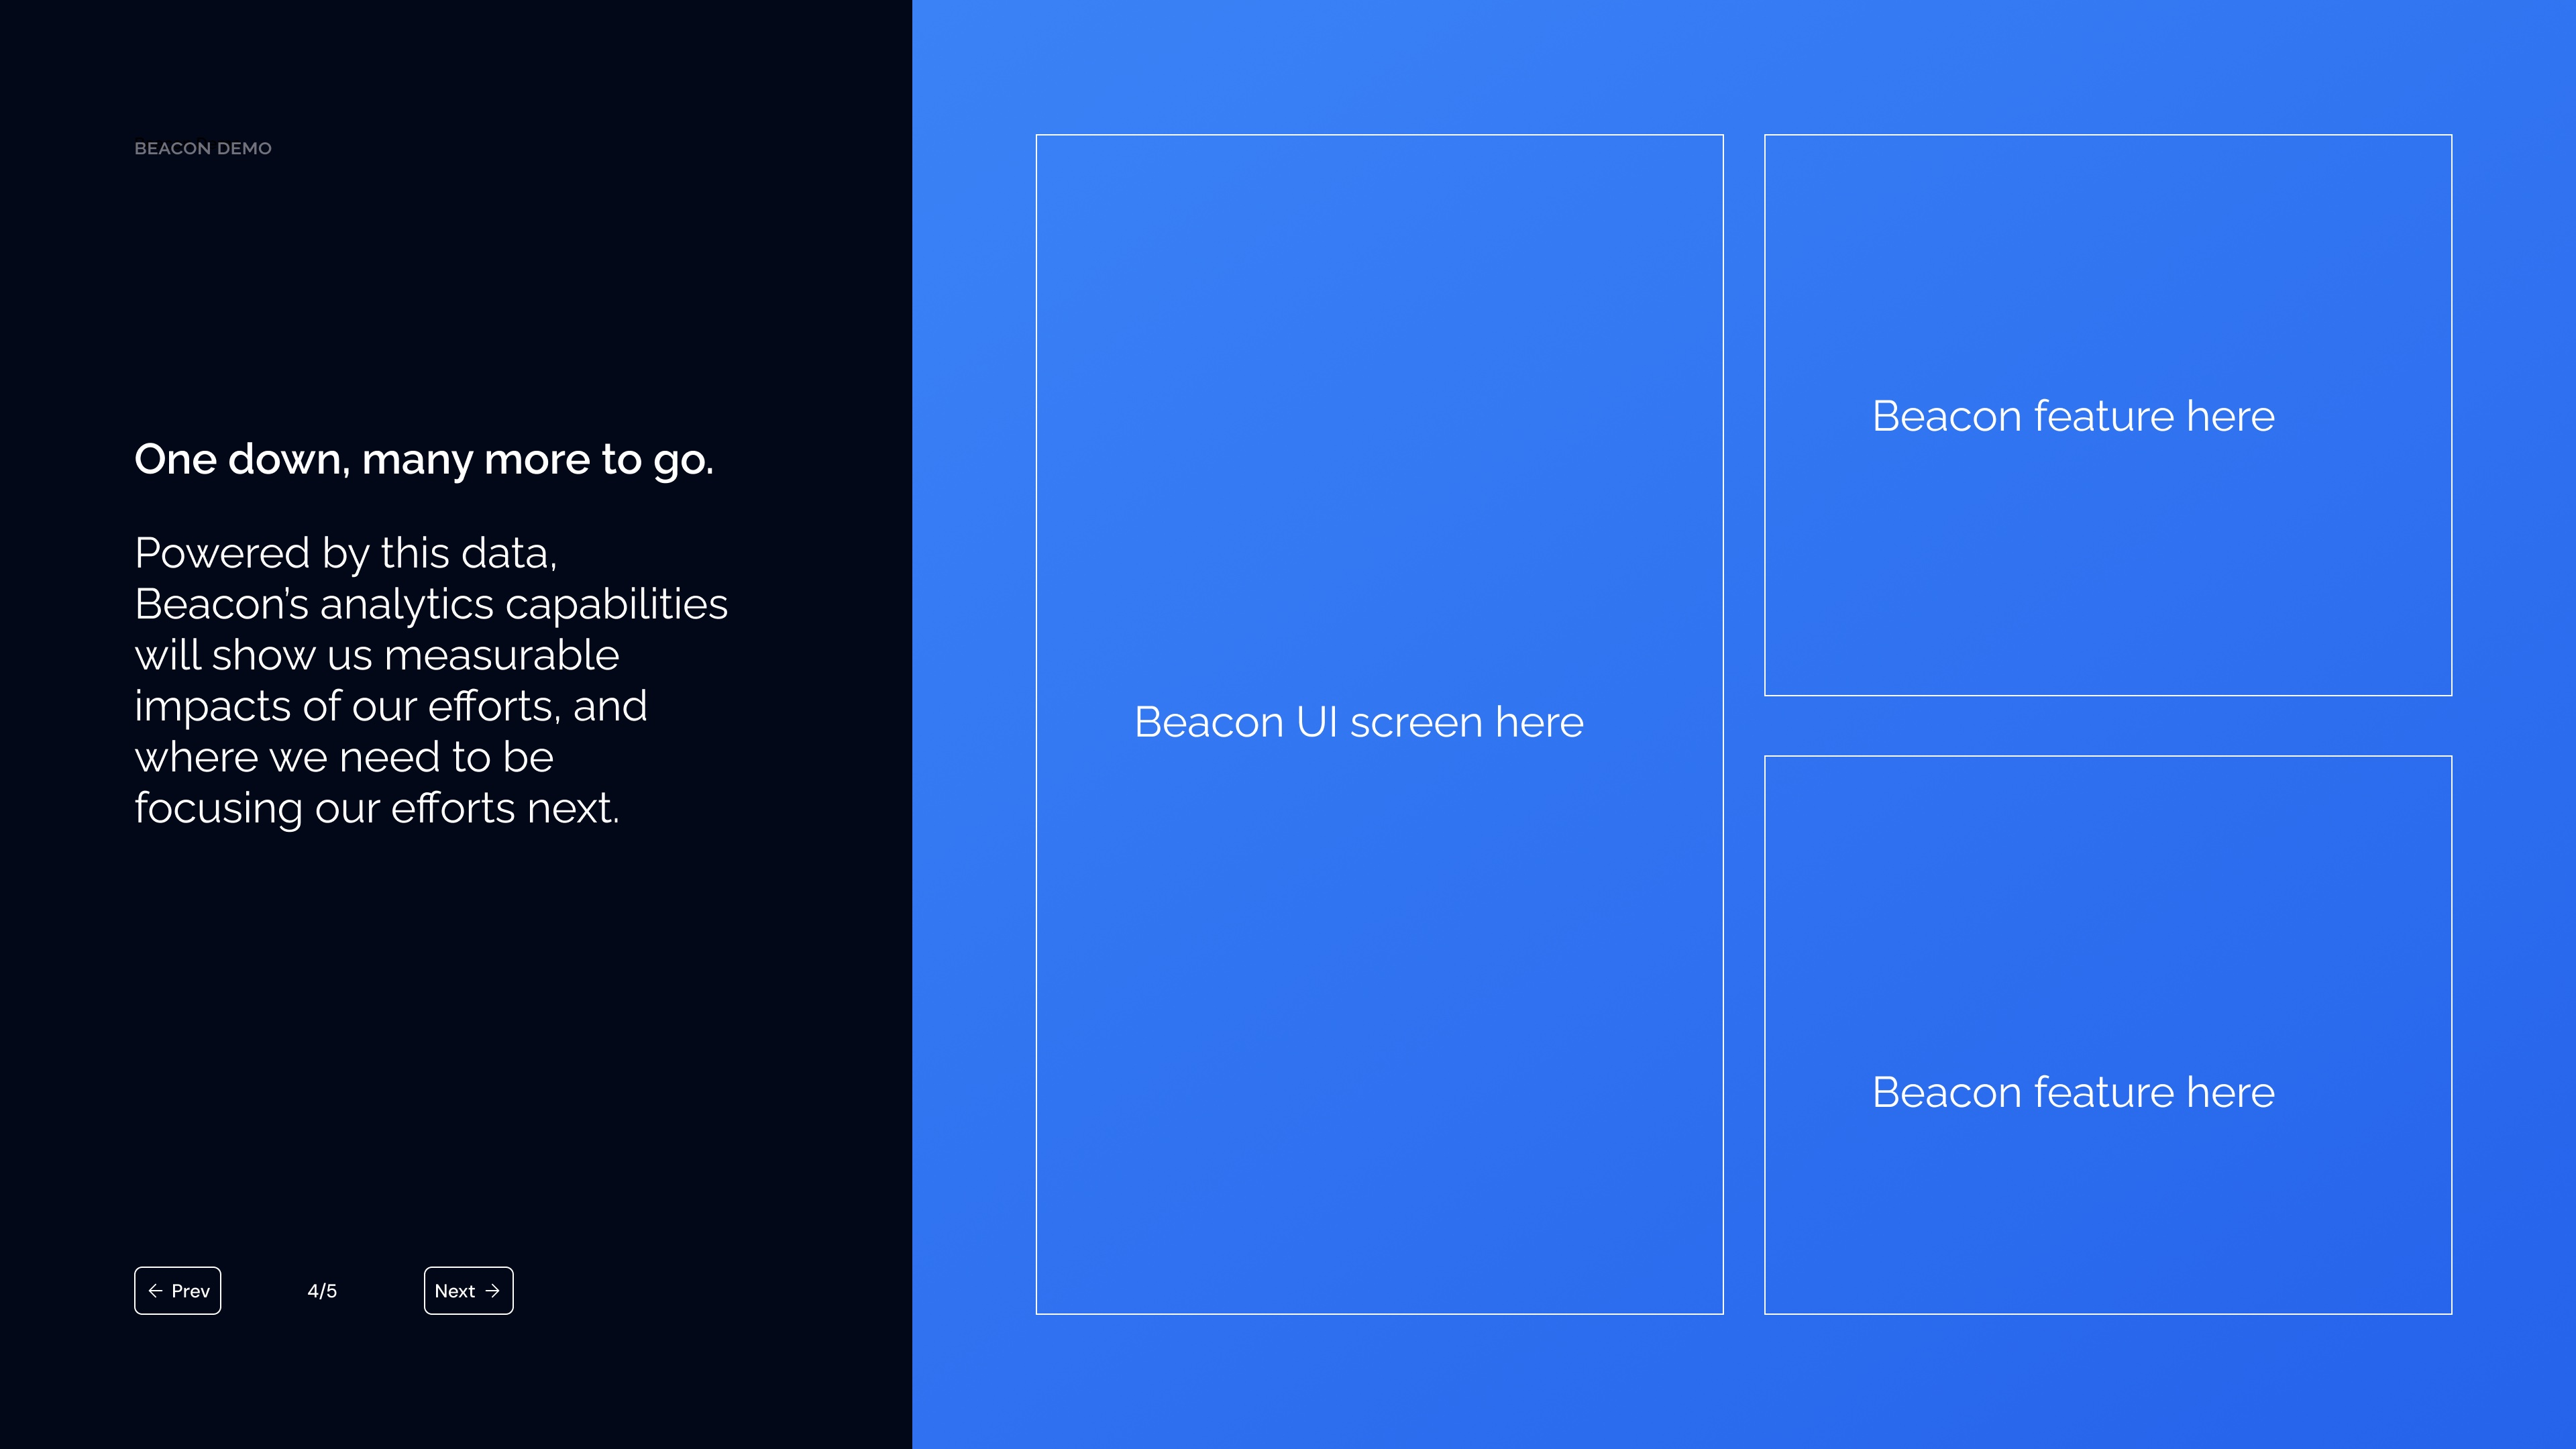
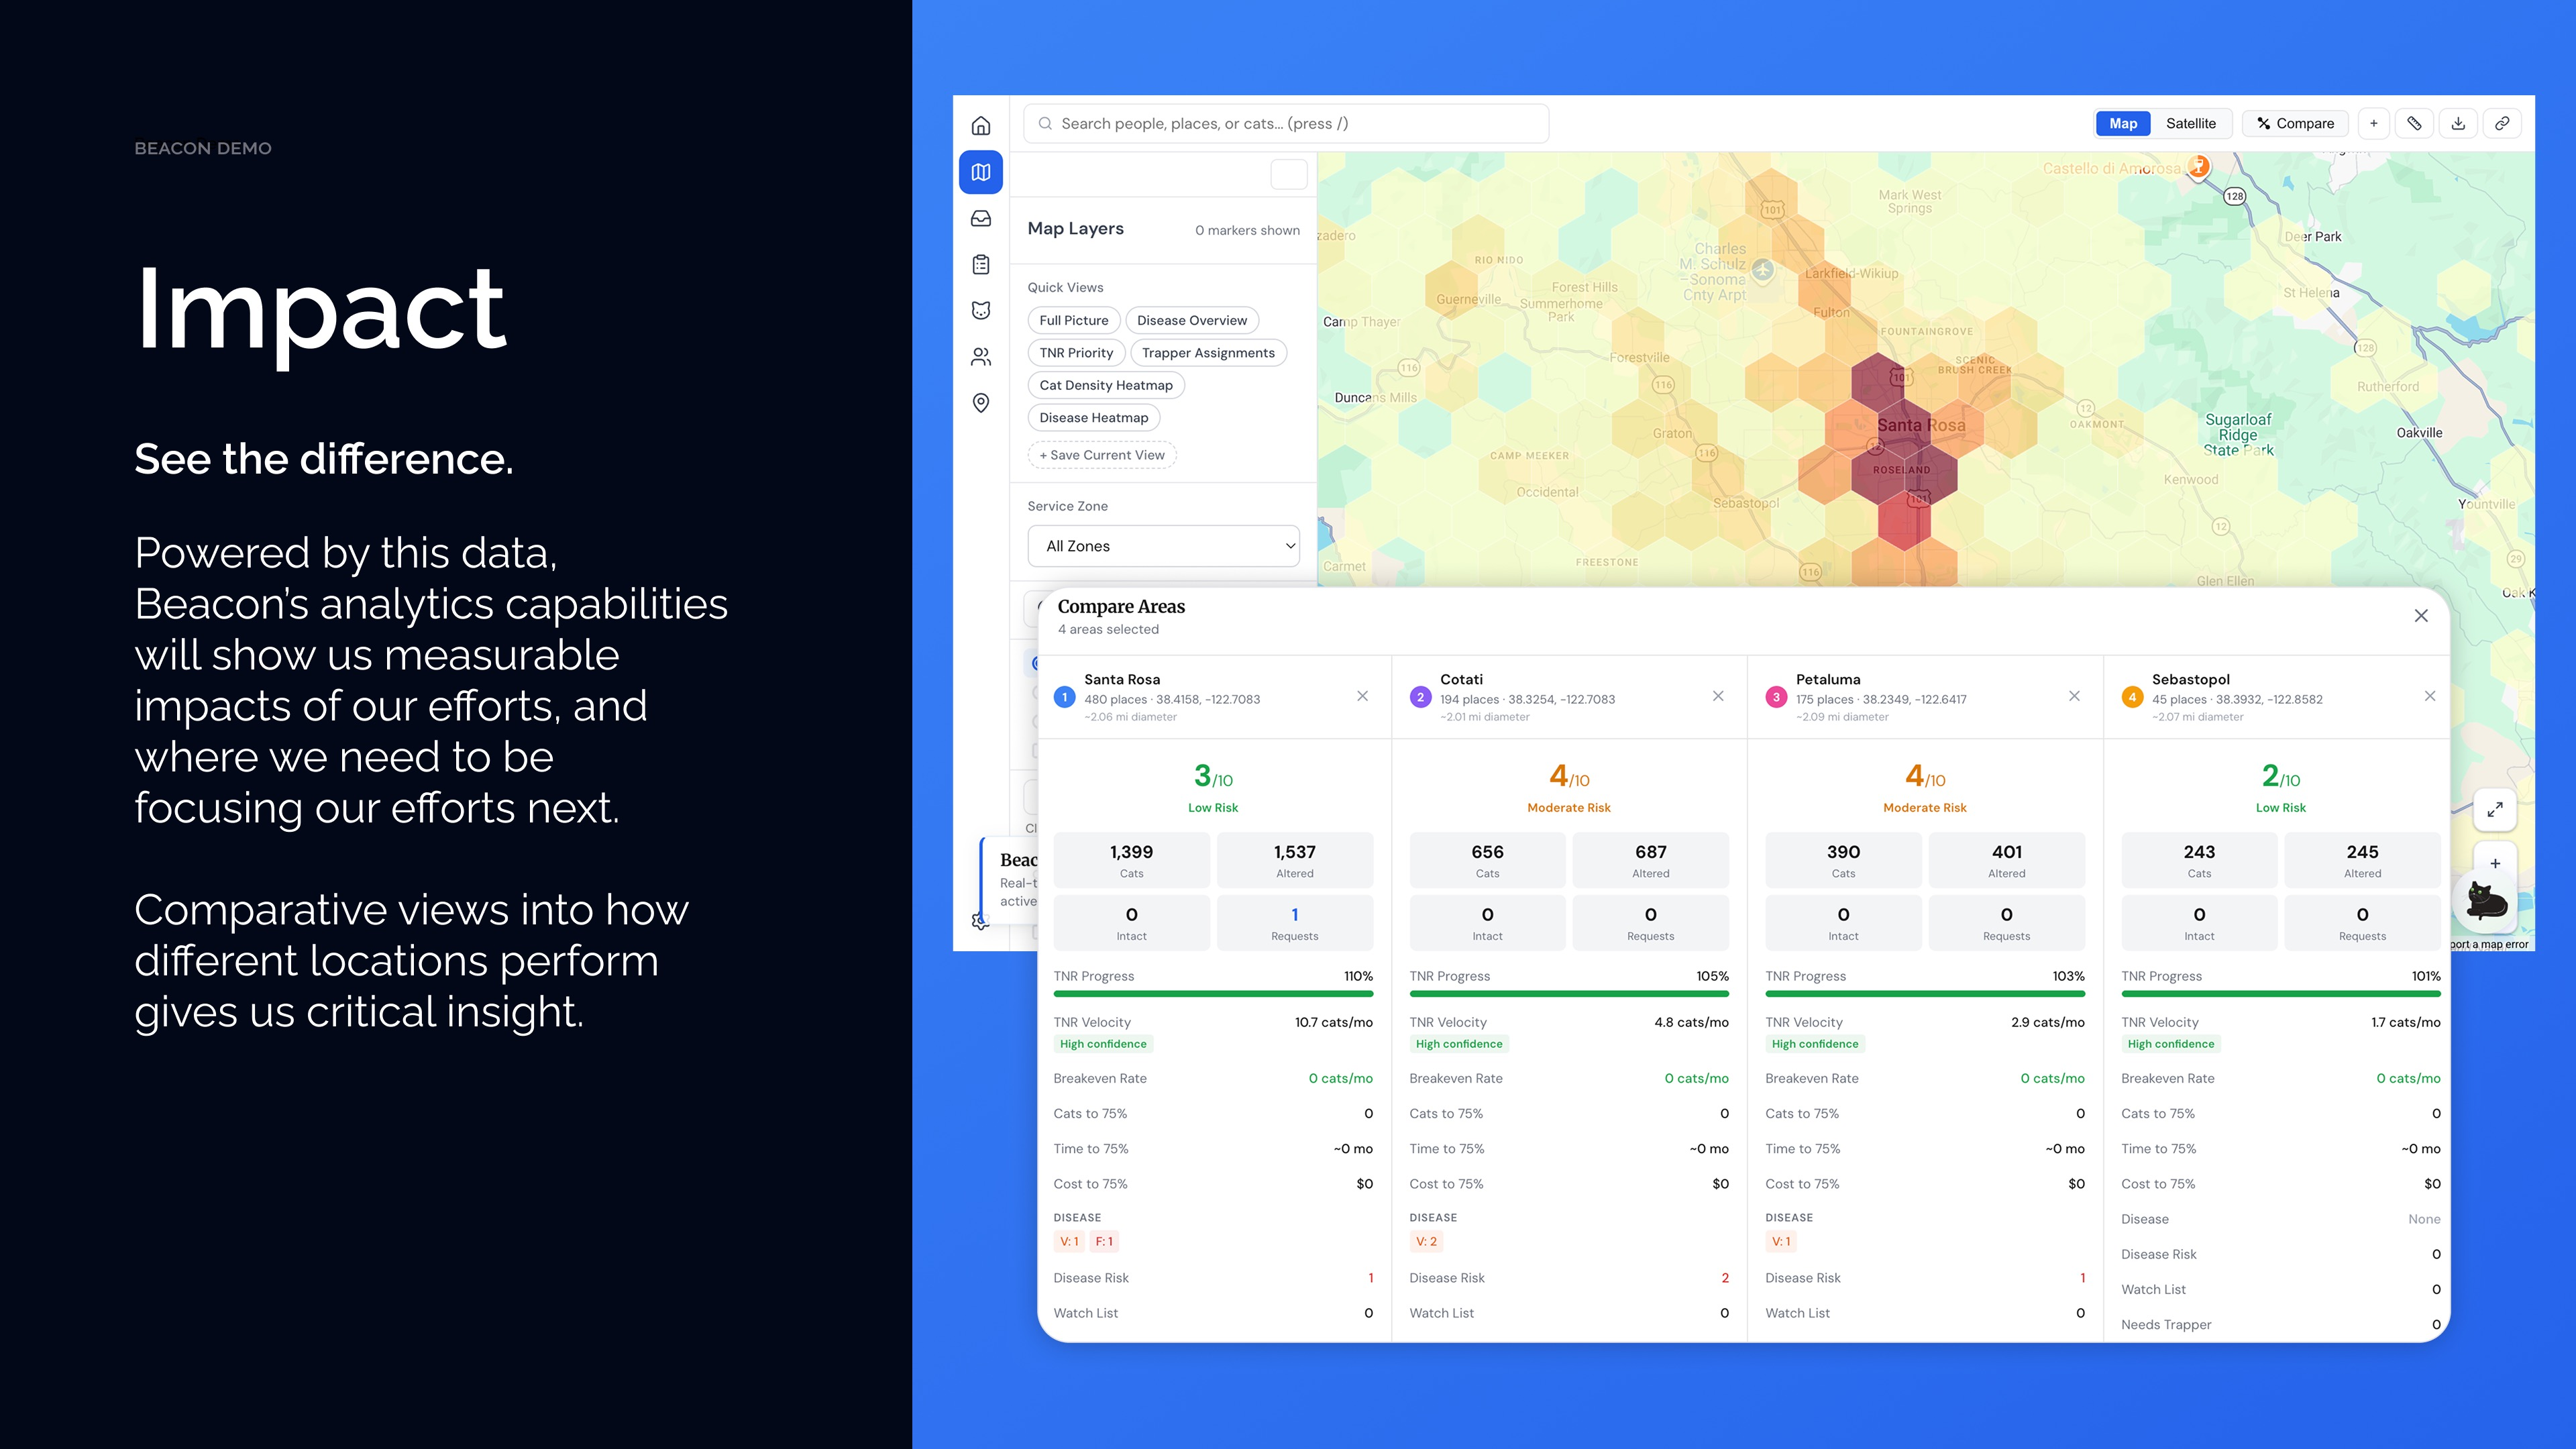
feat(gala): slide 4 replacement, PII redaction, hexbin tour stops
- Replace slide-4-analyze.jpg placeholder with real Impact/Compare screenshot
- Add data-pii attributes to requests page PII elements (names, addresses)
- Global CSS blur for [data-pii] elements in presentation-mode
- Add Cat Density Hexbin + TNR Priority Zones as tour stops
- Wire showcase:layers events from tour → useMapLayers to activate hexbin
  views during the scripted fly-through

diff --git a/apps/web/src/components/ShowcaseMapTour.tsx b/apps/web/src/components/ShowcaseMapTour.tsx
@@ -78,6 +78,26 @@ export const DEFAULT_TOUR_STOPS: TourStop[] = [
     stat: { value: "FIV+", label: "disease alert active" },
   },
   {
+    label: "Cat Density Heatmap",
+    description: "Hexbin view shows concentration of colony activity across Santa Rosa. Darker cells = more cats needing TNR. This helps prioritize trapping resources.",
+    lat: 38.44,
+    lng: -122.714,
+    zoom: 12,
+    pauseMs: 6000,
+    stat: { value: "Hexbin", label: "density view" },
+    layers: ["cat-density-heatmap"],
+  },
+  {
+    label: "TNR Priority Zones",
+    description: "Areas color-coded by TNR urgency — red zones have unaltered colonies, green zones are managed. Beacon identifies where our efforts will have the greatest impact.",
+    lat: 38.44,
+    lng: -122.72,
+    zoom: 11,
+    pauseMs: 6000,
+    stat: { value: "Priority", label: "zone analysis" },
+    layers: ["tnr-priority"],
+  },
+  {
     label: "County-Wide Coverage",
     description: "From Cloverdale to Petaluma, Bodega Bay to Sonoma Valley. 37,000+ cats altered since 2013 — every one verified at our clinic.",
     lat: 38.50,
@@ -139,6 +159,14 @@ export function ShowcaseMapTour({ map, stops = DEFAULT_TOUR_STOPS, onComplete }:
     // Fly to location
     map.panTo({ lat: stop.lat, lng: stop.lng });
     map.setZoom(stop.zoom);
+
+    // Activate map layers if specified (e.g., hexbin views)
+    if (stop.layers && stop.layers.length > 0) {
+      window.dispatchEvent(new CustomEvent("showcase:layers", { detail: stop.layers }));
+    } else {
+      // Reset layers when stop has none
+      window.dispatchEvent(new CustomEvent("showcase:layers", { detail: [] }));
+    }
 
     // Progress bar animation
     setProgress(0);

diff --git a/apps/web/src/components/map/hooks/useMapLayers.ts b/apps/web/src/components/map/hooks/useMapLayers.ts
@@ -87,6 +87,31 @@ export function useMapLayers({ atlasPins }: { atlasPins: AtlasPin[] }) {
     if (newUrl !== curUrl) router.replace(newUrl, { scroll: false });
   }, [enabledLayers, pathname, router, searchParams]);
 
+  // Listen for showcase tour layer activation
+  useEffect(() => {
+    const LAYER_MAP: Record<string, string> = {
+      "cat-density-heatmap": "hexbin_density",
+      "tnr-priority": "hexbin_intact",
+      "disease-heatmap": "hexbin_disease",
+    };
+    const handler = (e: Event) => {
+      const layers = (e as CustomEvent).detail as string[];
+      setEnabledLayers(prev => {
+        const next = { ...prev };
+        // Turn off all hexbin/heatmap layers first
+        for (const id of [...HEXBIN_LAYER_IDS, ...HEATMAP_LAYER_IDS]) next[id] = false;
+        // Activate requested layers
+        for (const l of layers) {
+          const mapped = LAYER_MAP[l] || l;
+          if (mapped in next) next[mapped] = true;
+        }
+        return next;
+      });
+    };
+    window.addEventListener("showcase:layers", handler);
+    return () => window.removeEventListener("showcase:layers", handler);
+  }, []);
+
   const toggleLayer = useCallback((layerId: string) => {
     setEnabledLayers(prev => {
       const next = { ...prev };

diff --git a/apps/web/src/app/requests/page.tsx b/apps/web/src/app/requests/page.tsx
@@ -581,7 +581,7 @@ function RequestCard({ request, onTrapperAction, actionMenuId, onToggleMenu, onC
                 whiteSpace: "nowrap",
               }}
             >
-              {request.place_name}
+              <span data-pii="address">{request.place_name}</span>
               {request.place_city && ` • ${request.place_city}`}
             </div>
           )}
@@ -595,7 +595,7 @@ function RequestCard({ request, onTrapperAction, actionMenuId, onToggleMenu, onC
                 marginTop: "4px",
               }}
             >
-              Trapper: {request.primary_trapper_name}
+              Trapper: <span data-pii="name">{request.primary_trapper_name}</span>
               {request.active_trapper_count > 1 && ` +${request.active_trapper_count - 1}`}
             </div>
           )}
@@ -613,7 +613,7 @@ function RequestCard({ request, onTrapperAction, actionMenuId, onToggleMenu, onC
             {/* Requestor */}
             <div style={{ display: "flex", alignItems: "center", gap: "4px" }}>
               <span style={{ color: COLORS.primary, fontWeight: 500 }}>Requestor:</span>
-              <span style={{ color: "var(--text-secondary)" }}>
+              <span style={{ color: "var(--text-secondary)" }} data-pii="name">
                 {request.requester_name || "Unknown"}
               </span>
               {request.requester_role_at_submission && request.requester_role_at_submission !== "unknown" && (
@@ -633,7 +633,7 @@ function RequestCard({ request, onTrapperAction, actionMenuId, onToggleMenu, onC
             {request.site_contact_name && !request.requester_is_site_contact && (
               <div style={{ display: "flex", alignItems: "center", gap: "4px", marginTop: "2px" }}>
                 <span style={{ color: COLORS.success, fontWeight: 500 }}>Site:</span>
-                <span style={{ color: "var(--text-secondary)" }}>
+                <span style={{ color: "var(--text-secondary)" }} data-pii="name">
                   {request.site_contact_name}
                 </span>
               </div>
@@ -1600,7 +1600,7 @@ function RequestsPageContent() {
                   <td>
                     {req.place_name ? (
                       <div>
-                        <div style={{ fontWeight: 500 }}>{req.place_name}</div>
+                        <div style={{ fontWeight: 500 }} data-pii="address">{req.place_name}</div>
                         {req.place_city && (
                           <div className="text-muted text-sm">{req.place_city}</div>
                         )}
@@ -1623,7 +1623,7 @@ function RequestsPageContent() {
                   <td className="text-sm">
                     {req.primary_trapper_name ? (
                       <div>
-                        <span>{req.primary_trapper_name}</span>
+                        <span data-pii="name">{req.primary_trapper_name}</span>
                         {req.active_trapper_count > 1 && (
                           <span className="text-muted"> +{req.active_trapper_count - 1}</span>
                         )}
@@ -1636,7 +1636,7 @@ function RequestsPageContent() {
                   </td>
                   <td>
                     {req.requester_name ? (
-                      <span>{req.requester_name}</span>
+                      <span data-pii="name">{req.requester_name}</span>
                     ) : (
                       <span className="text-muted">Unknown</span>
                     )}

diff --git a/apps/web/src/app/globals.css b/apps/web/src/app/globals.css
@@ -1103,6 +1103,17 @@ body.presentation-mode .action-row span {
   transition: opacity 200ms ease;
 }
 
+/* PII redaction in showcase/presentation mode */
+body.presentation-mode [data-pii] {
+  filter: blur(5px);
+  user-select: none;
+  pointer-events: none;
+  transition: filter 200ms ease;
+}
+body.presentation-mode [data-pii]:hover {
+  filter: blur(5px); /* no unblur on hover */
+}
+
 /* Hide old indicator pill when showcase toolbar is present */
 body.presentation-mode .showcase-toolbar ~ .presentation-indicator {
   display: none;